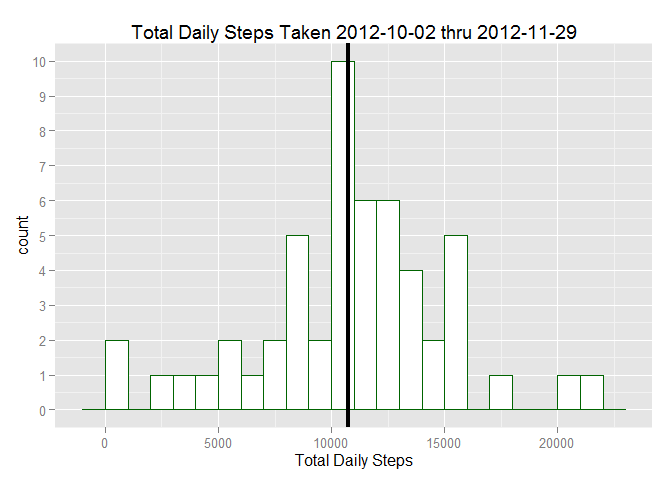
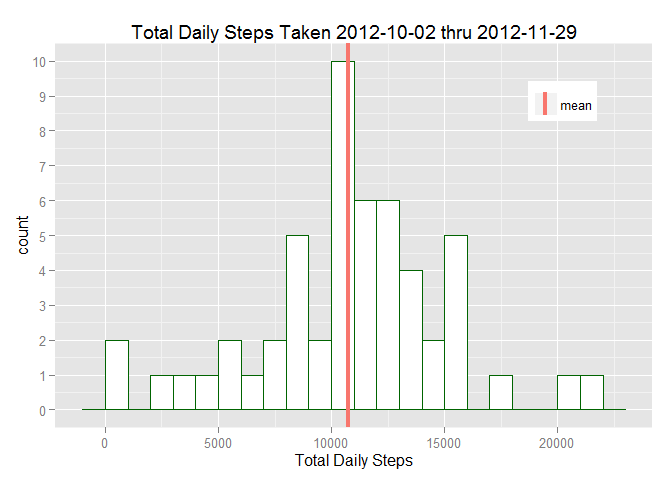
fix vertical line mean and add legend to createHistogram

Changed region(s): [[0.5, 0.0938, 0.5312, 0.875], [0.7812, 0.1562, 0.9062, 0.25]]

diff --git a/RepResearchPA1.html b/RepResearchPA1.html
@@ -129,8 +129,7 @@ createHistogram &lt;- function(plot.data, x.data, bar.outline.color, bar.fill,
                             bin.size, y.breaks, plot.title, x.label,
                             verticalMean = FALSE, x.mean = 0,
                             verticalMedian = FALSE, x.median = 0) {
-    # Use aes_string to pass column by name as a string:
-    # http://stackoverflow.com/questions/15458526
+    # Use aes_string to pass column by name as a string
     p &lt;- ggplot(plot.data, aes_string(x = x.data))
     p &lt;- p + geom_histogram(colour=bar.outline.color, fill=bar.fill,
                             binwidth=bin.size)
@@ -140,8 +139,11 @@ createHistogram &lt;- function(plot.data, x.data, bar.outline.color, bar.fill,
     
     # add vertical line for mean and median
     if(verticalMean) {
-        vline1.data &lt;- data.frame(x = x.mean)
-        p &lt;- p + geom_vline(aes(xintercept = x), data = vline1.data, size = 1.5)
+        vline1.data &lt;- data.frame(x = x.mean, colour = c(&quot;mean&quot;))
+        p &lt;- p + geom_vline(aes(xintercept = x, colour = colour),
+                            data = vline1.data, size = 1.5,
+                            show_guide = TRUE)
+        p &lt;- p + theme(legend.position=c(0.85,0.85), legend.title=element_blank())
     }
     if(verticalMedian) {
         vline2.data &lt;- data.frame(x = x.median)
@@ -154,7 +156,7 @@ title &lt;- &quot;Total Daily Steps Taken 2012-10-02 thru 2012-11-29&quot;
 createHistogram(activity.summ, &quot;Total.Steps&quot;, &quot;darkgreen&quot;, &quot;white&quot;,
                 1000, seq(0, 11, 1), title, &quot;Total Daily Steps&quot;,
                 verticalMean = TRUE, x.mean = steps.mean)</code></pre>
[2 lines of base64/hex data omitted]
 <p>The <strong>mean</strong> number of steps taken per day was <strong>10766.19</strong><br />The <strong>median</strong> number of steps taken per day was <strong>10765</strong></p>
 </div>
 <div id="what-is-the-average-daily-activity-pattern" class="section level2">
@@ -232,14 +234,15 @@ for(i in 1:length(activity.data.normalized$interval)) {
 
 # generate the second histogram
 daily.steps &lt;- getDailySteps(activity.data.normalized)
+# calculate the new mean and median values
+mean.imp &lt;- mean(daily.steps$Total.Steps)
+median.imp &lt;- median(daily.steps$Total.Steps)
 t &lt;- &quot;Total Daily Steps Taken 2012-10-02 thru 2012-11-29&quot;
 t &lt;- paste0(t, &quot;\n(NAs imputed with interval average)&quot;)
 createHistogram(daily.steps, &quot;Total.Steps&quot;, &quot;blue&quot;, &quot;white&quot;,
-                1000, seq(0, 20, 2), t, &quot;Total Daily Steps&quot;)</code></pre>
[1 lines of base64/hex data omitted]
-<pre class="r"><code># calculate the new mean and median values
-mean.imp &lt;- mean(daily.steps$Total.Steps)
-median.imp &lt;- median(daily.steps$Total.Steps)</code></pre>
+                1000, seq(0, 20, 2), t, &quot;Total Daily Steps&quot;,
+                verticalMean = TRUE, x.mean = mean.imp)</code></pre>
[1 lines of base64/hex data omitted]
 <p>After imputting NAs, <strong>mean</strong> number of steps taken per day = <strong>10766.19</strong><br />After imputing NAs, <strong>median</strong> number of steps taken per day = <strong>10766.19</strong></p>
 <p>Imputting the NAs in the way described above did not change the value of the <strong>mean</strong>. The <strong>median</strong> value changed only slightly because it was already very close to the mean. The only noticable change is the lengthening of the bin containing the mean in the histogram. These results were to be expected since we added more mean values to the data.</p>
 </div>

diff --git a/RepResearchPA1.md b/RepResearchPA1.md
@@ -70,8 +70,7 @@ createHistogram <- function(plot.data, x.data, bar.outline.color, bar.fill,
                             bin.size, y.breaks, plot.title, x.label,
                             verticalMean = FALSE, x.mean = 0,
                             verticalMedian = FALSE, x.median = 0) {
-    # Use aes_string to pass column by name as a string:
-    # http://stackoverflow.com/questions/15458526
+    # Use aes_string to pass column by name as a string
     p <- ggplot(plot.data, aes_string(x = x.data))
     p <- p + geom_histogram(colour=bar.outline.color, fill=bar.fill,
                             binwidth=bin.size)
@@ -81,8 +80,11 @@ createHistogram <- function(plot.data, x.data, bar.outline.color, bar.fill,
     
     # add vertical line for mean and median
     if(verticalMean) {
-        vline1.data <- data.frame(x = x.mean)
-        p <- p + geom_vline(aes(xintercept = x), data = vline1.data, size = 1.5)
+        vline1.data <- data.frame(x = x.mean, colour = c("mean"))
+        p <- p + geom_vline(aes(xintercept = x, colour = colour),
+                            data = vline1.data, size = 1.5,
+                            show_guide = TRUE)
+        p <- p + theme(legend.position=c(0.85,0.85), legend.title=element_blank())
     }
     if(verticalMedian) {
         vline2.data <- data.frame(x = x.median)
@@ -205,19 +207,17 @@ for(i in 1:length(activity.data.normalized$interval)) {
 
 # generate the second histogram
 daily.steps <- getDailySteps(activity.data.normalized)
-t <- "Total Daily Steps Taken 2012-10-02 thru 2012-11-29"
-t <- paste0(t, "\n(NAs imputed with interval average)")
-createHistogram(daily.steps, "Total.Steps", "blue", "white",
-                1000, seq(0, 20, 2), t, "Total Daily Steps")
-```
-
-![](RepResearchPA1_files/figure-html/unnamed-chunk-7-1.png) 
-
-```r
 # calculate the new mean and median values
 mean.imp <- mean(daily.steps$Total.Steps)
 median.imp <- median(daily.steps$Total.Steps)
+t <- "Total Daily Steps Taken 2012-10-02 thru 2012-11-29"
+t <- paste0(t, "\n(NAs imputed with interval average)")
+createHistogram(daily.steps, "Total.Steps", "blue", "white",
+                1000, seq(0, 20, 2), t, "Total Daily Steps",
+                verticalMean = TRUE, x.mean = mean.imp)
 ```
+
+![](RepResearchPA1_files/figure-html/unnamed-chunk-7-1.png) 
   
 After imputting NAs, **mean** number of steps taken per day = **10766.19**  
 After imputing NAs, **median** number of steps taken per day = **10766.19**
